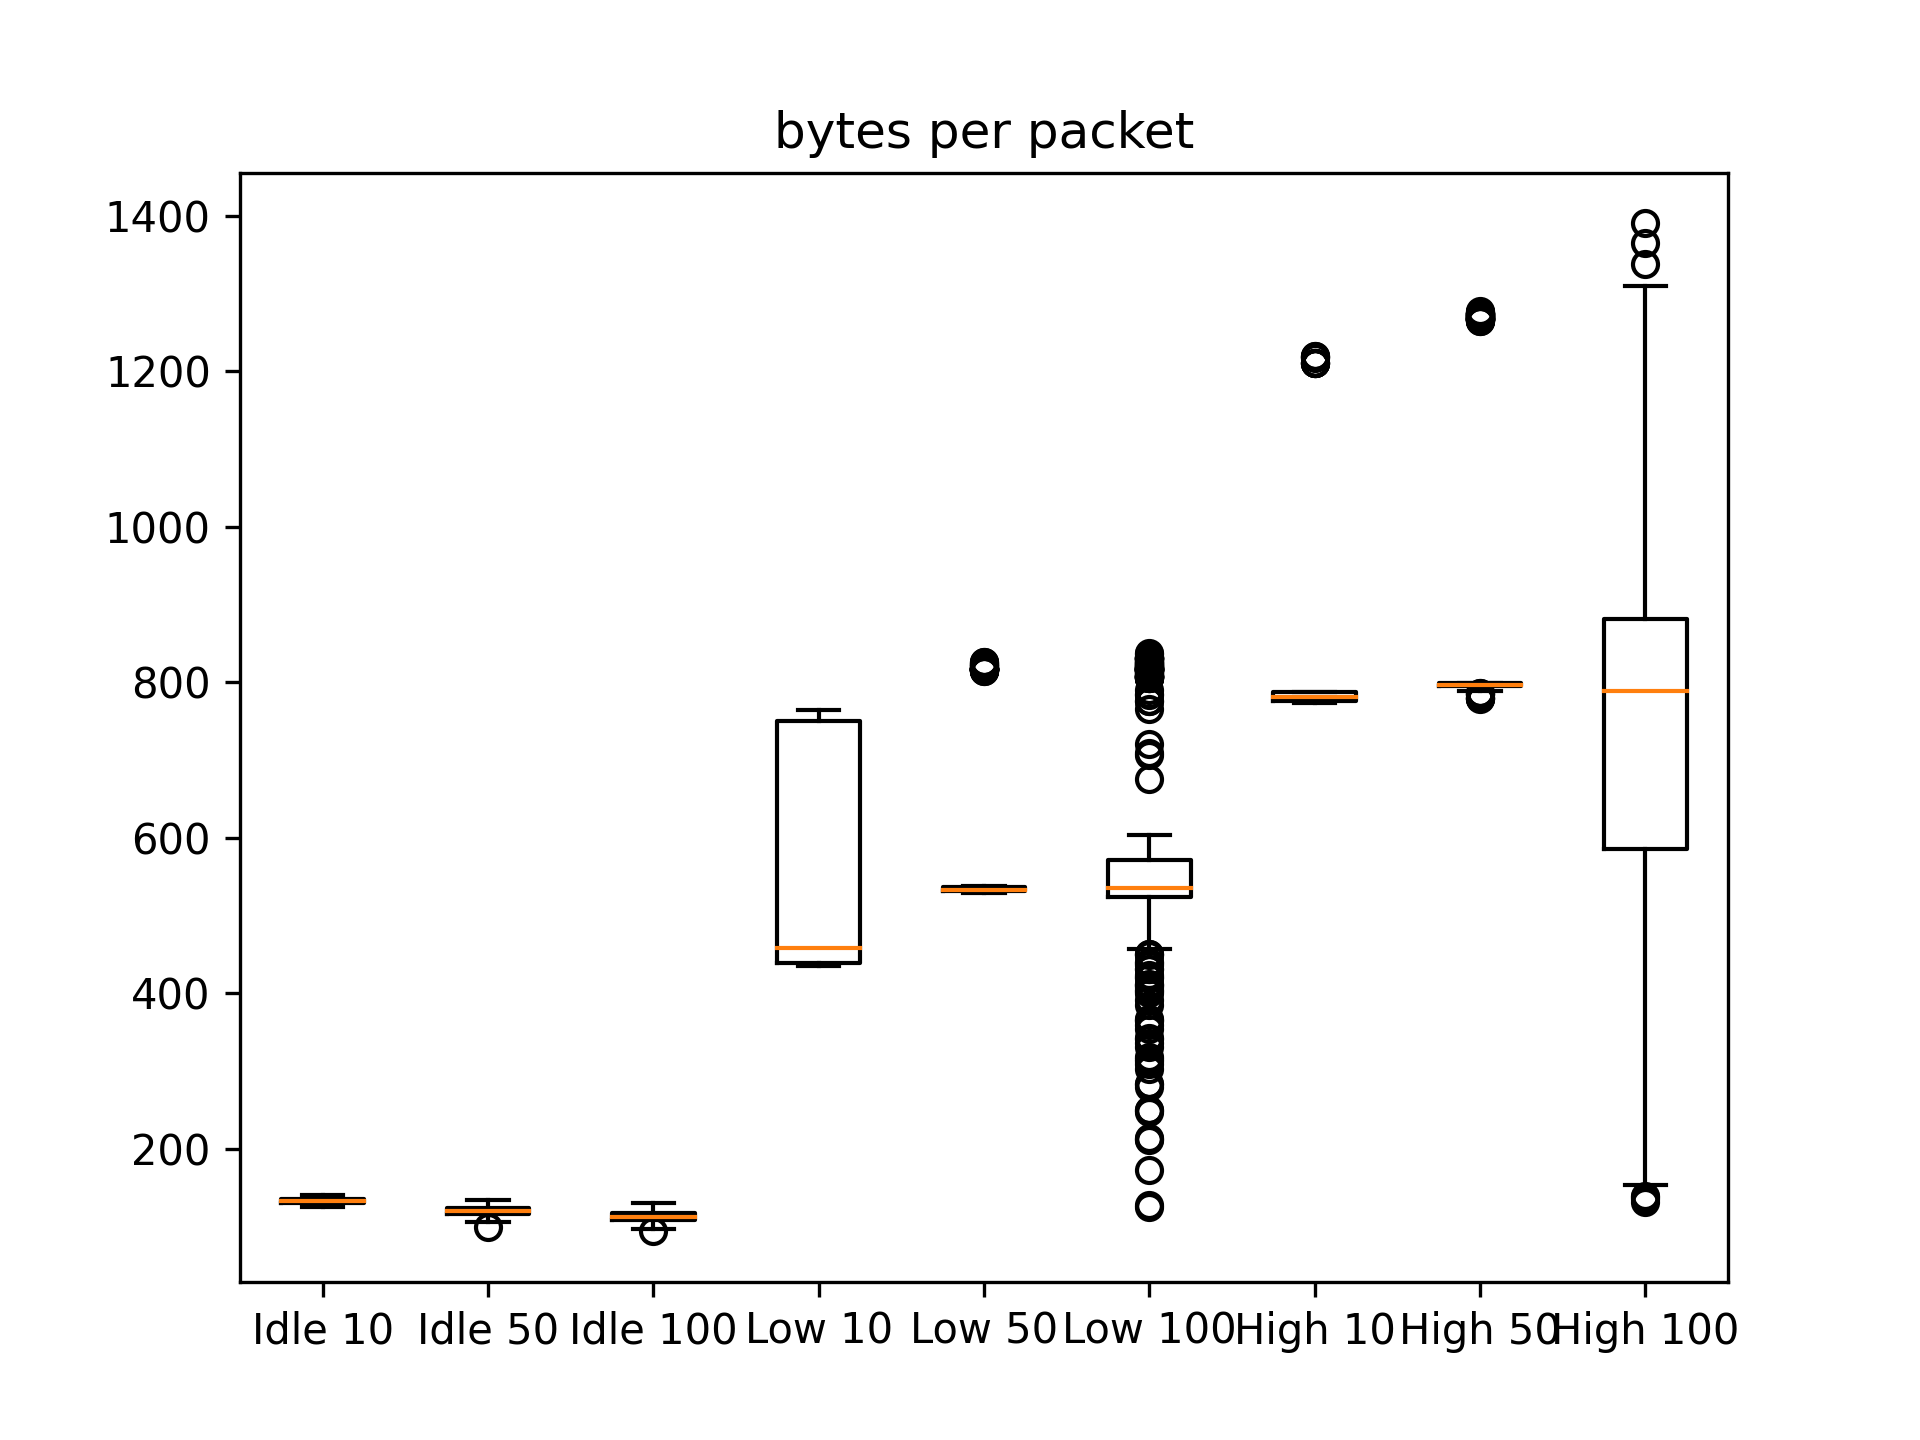
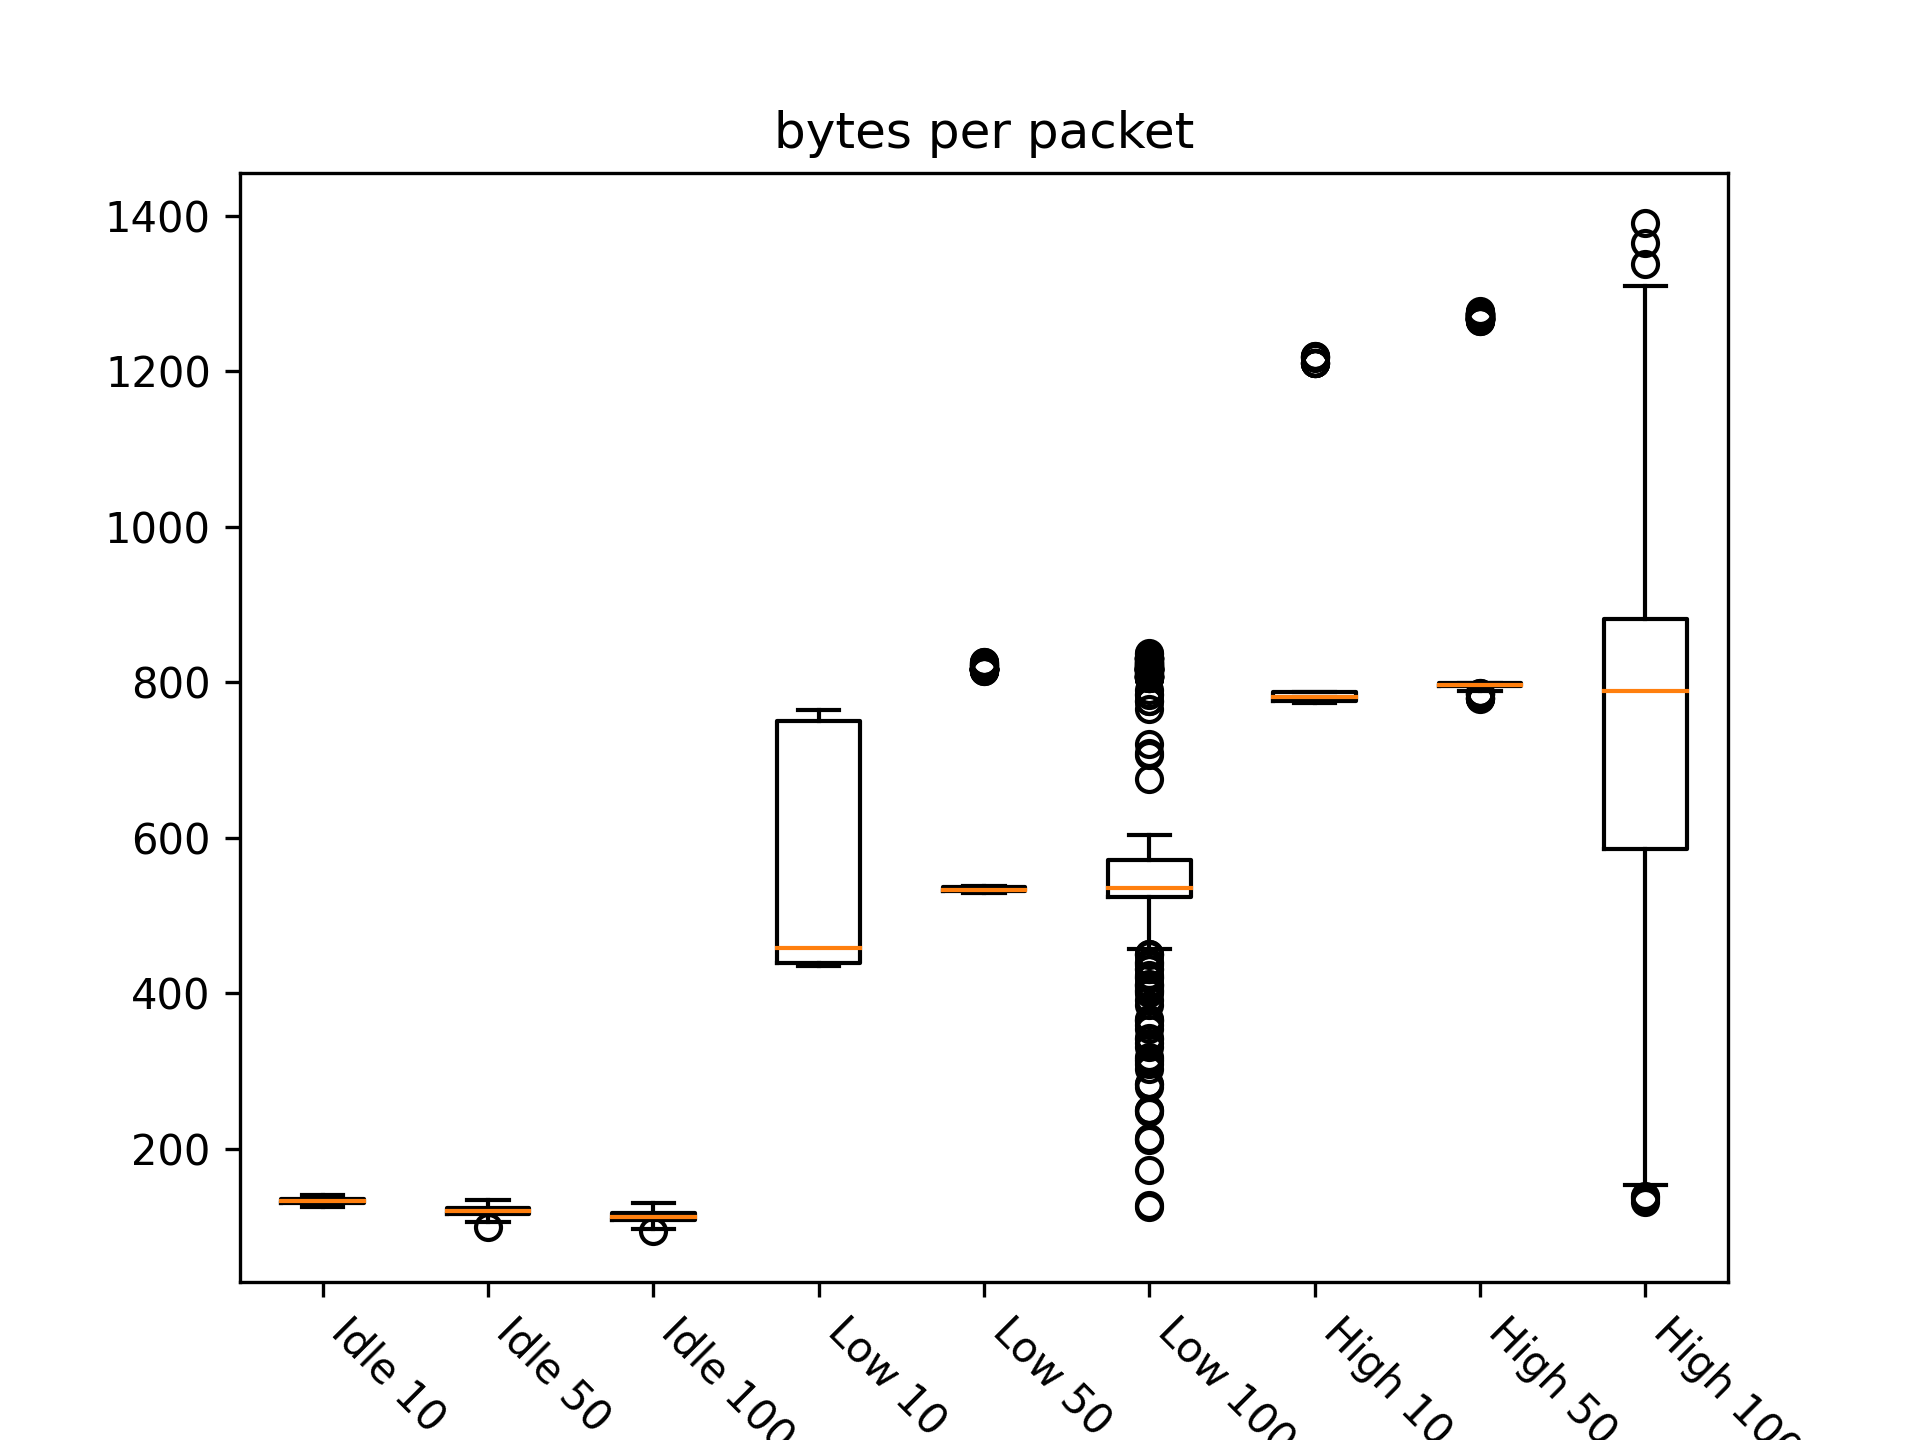
ruotata legenda dei grafici

diff --git a/tesi.tex b/tesi.tex
@@ -544,7 +544,7 @@ Per quanto sarebbe interessante avere un dato più preciso, questi pacchetti ``n
 
 \begin{figure}[H]
     \includegraphics[width=\linewidth, keepaspectratio]{graphs/total bytes.png}
-    \caption{Byte inviati in totale nella rete}\michele{Riesci a girare i label delle ascisse (ruotati di 90 gradi)? RIsulterebbe più leggibile il grafico}
+    \caption{Byte inviati in totale nella rete}
     \label{fig:tb}
 \end{figure}
 
